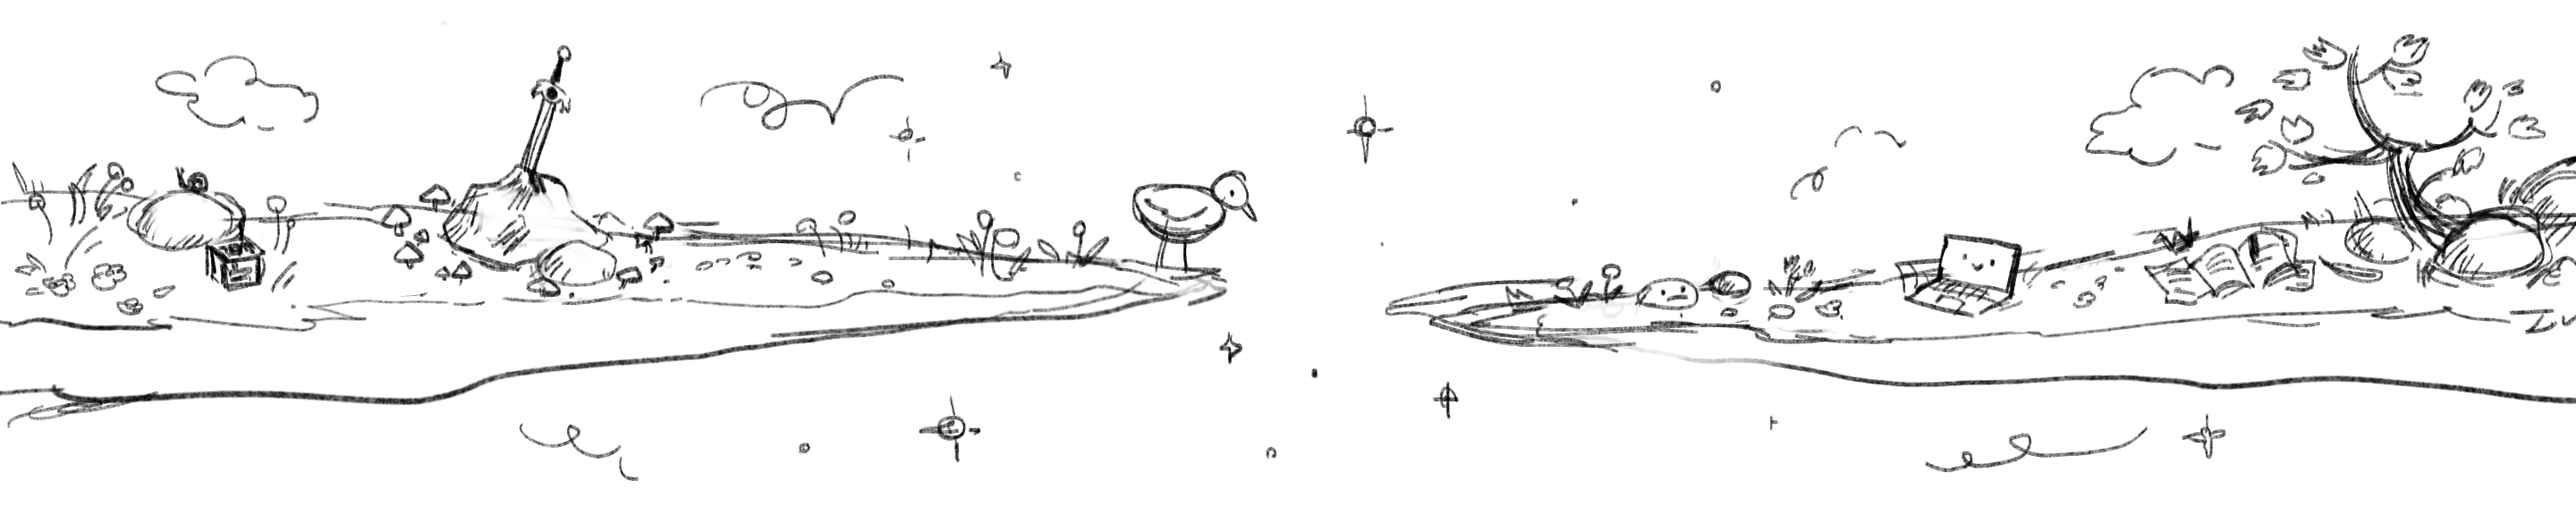
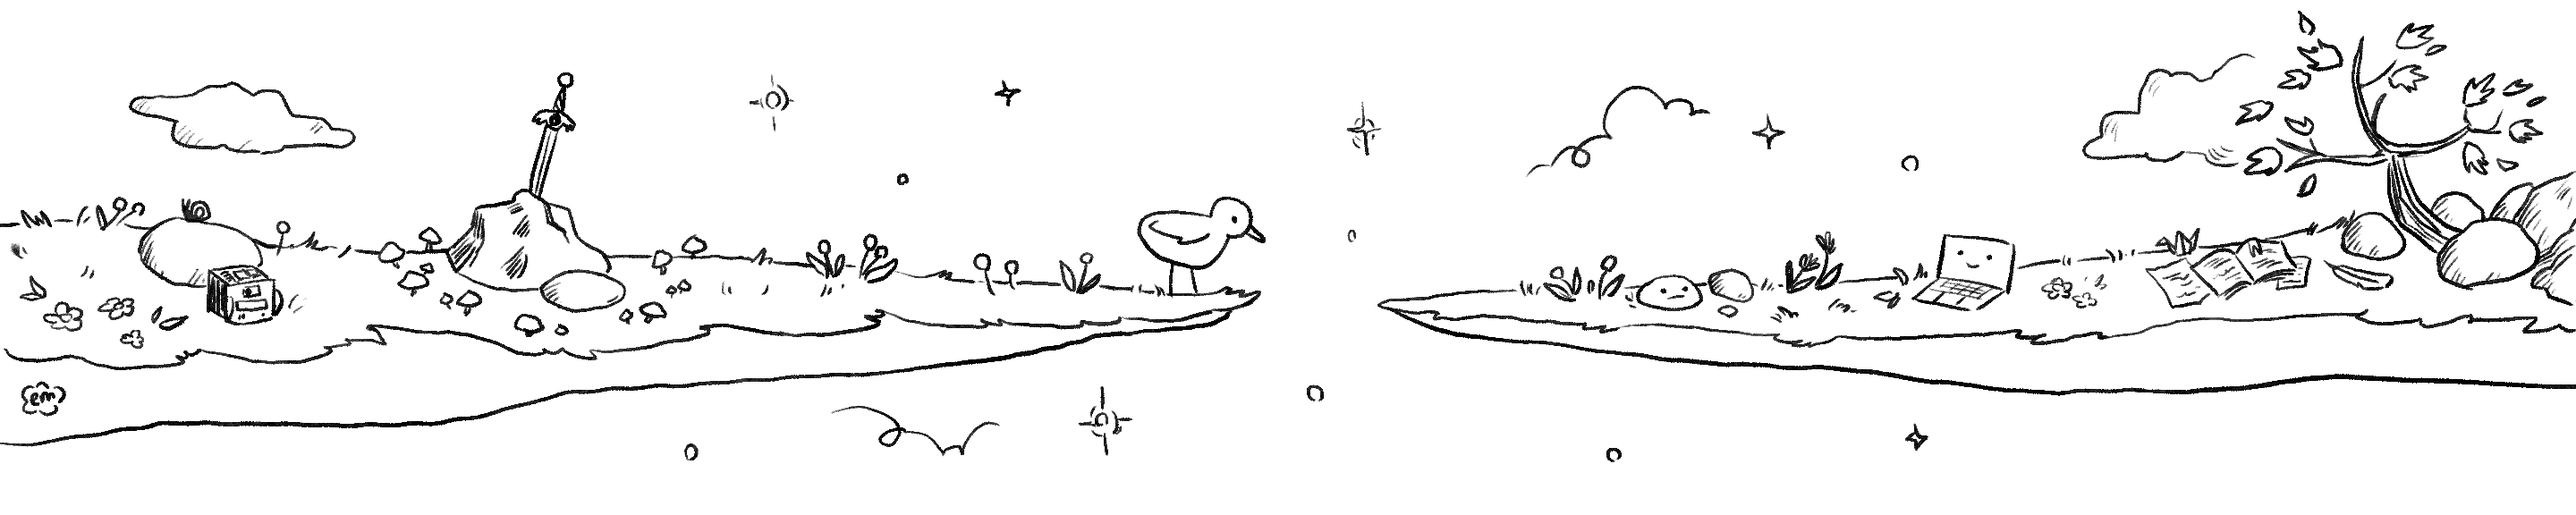
content: polished footer and link to ems site

diff --git a/layouts/partials/extend-footer.html b/layouts/partials/extend-footer.html
@@ -1,17 +1,26 @@
-{{/* Full-bleed illustrated footer band, shown on every page. Rendered via
-     Congo's extend-footer hook so it survives theme updates. Decorative only,
-     hence aria-hidden + empty alt. See `.footer-art` in assets/css/custom.css
-     for the full-width breakout and the light/dark blend handling. */}}
 {{ with resources.Get "img/footer.png" }}
   {{ $img := . | fingerprint }}
-  <div class="footer-art" aria-hidden="true">
+  <div class="footer-art">
     <img
       src="{{ $img.RelPermalink }}"
       alt=""
+      aria-hidden="true"
       width="{{ $img.Width }}"
       height="{{ $img.Height }}"
       loading="lazy"
       decoding="async"
     />
+    {{ with site.Params.footer.artCreditURL }}
+      {{ $name := default "the artist" site.Params.footer.artCreditName }}
+      {{ $label := printf "Footer illustration by %s" $name }}
+      <a
+        class="footer-art__sig"
+        href="{{ . }}"
+        title="{{ $label }}"
+        aria-label="{{ $label }}"
+        target="_blank"
+        rel="noopener"
+      ></a>
+    {{ end }}
   </div>
 {{ end }}

diff --git a/assets/css/custom.css b/assets/css/custom.css
@@ -311,6 +311,25 @@ header nav img:hover {
   margin-top: 2.5rem;
   margin-bottom: -2.5rem;
   line-height: 0; /* kill descender gap under the inline-block image */
+  position: relative; /* positioning context for the signature hit box */
+}
+
+/* Clickable credit over the artist's signature. Invisible square hit box —
+   no hover ring; the drawn stamp is its own affordance, and the <a>'s title
+   gives a tooltip on hover. */
+.footer-art__sig {
+  position: absolute;
+  --sig-size: clamp(20px, 1.67%, 44px);
+  width: var(--sig-size);
+  aspect-ratio: 1;
+  left: max(1.67%, calc(var(--sig-size) / 2));
+  top: 77.3%;
+  transform: translate(-50%, -50%);
+}
+
+.footer-art__sig:focus-visible {
+  outline: 2px solid currentColor;
+  outline-offset: 2px;
 }
 
 .footer-art img {
